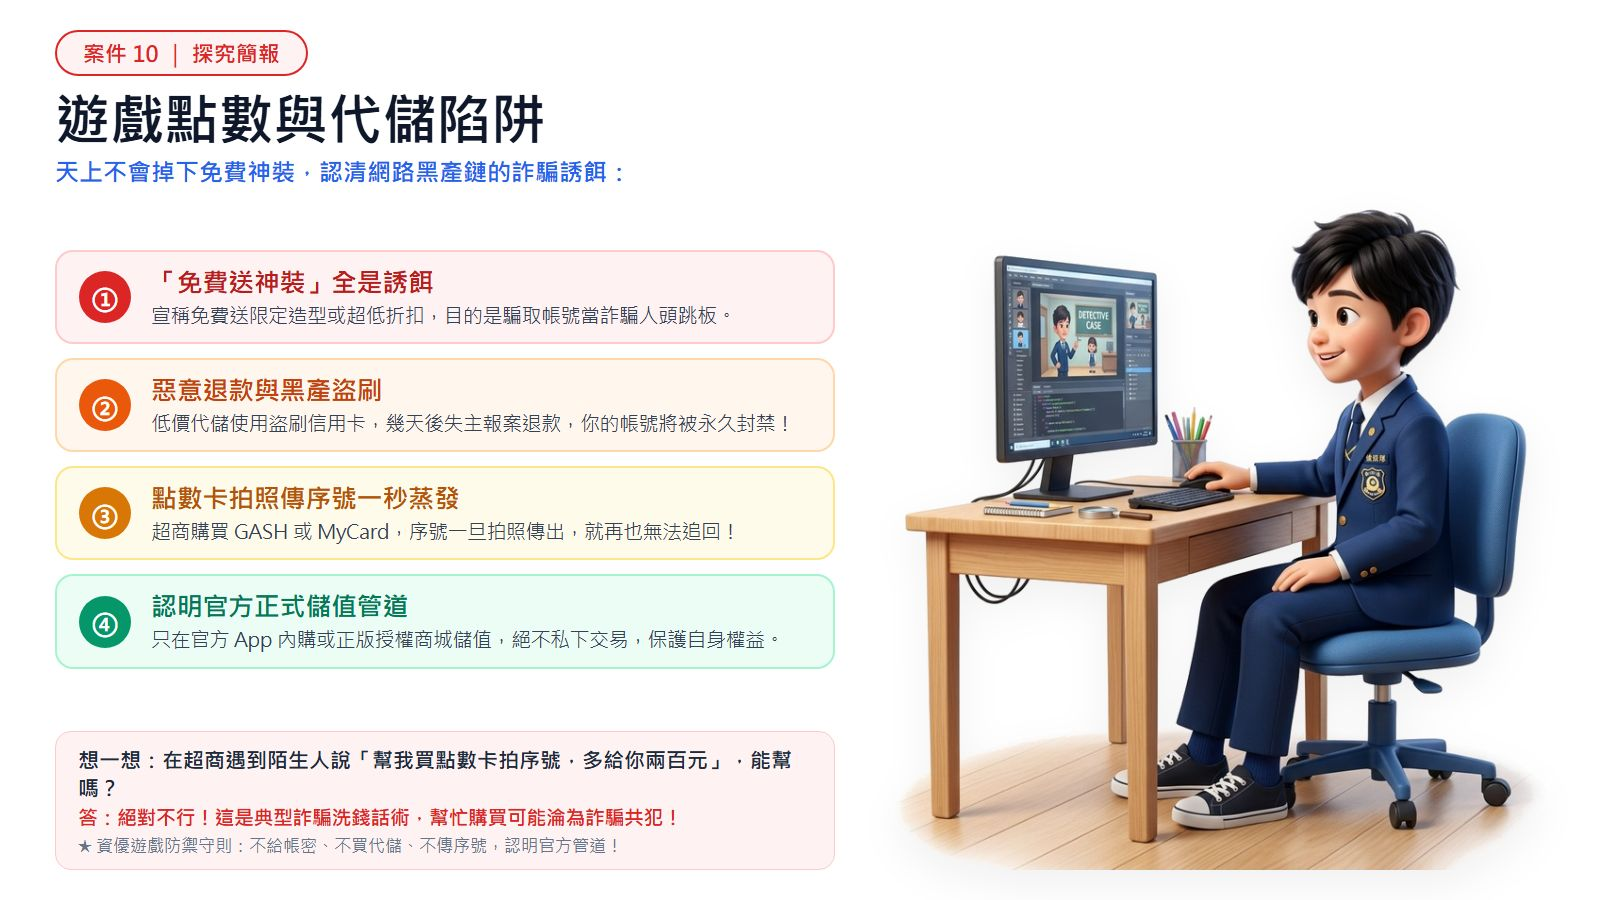
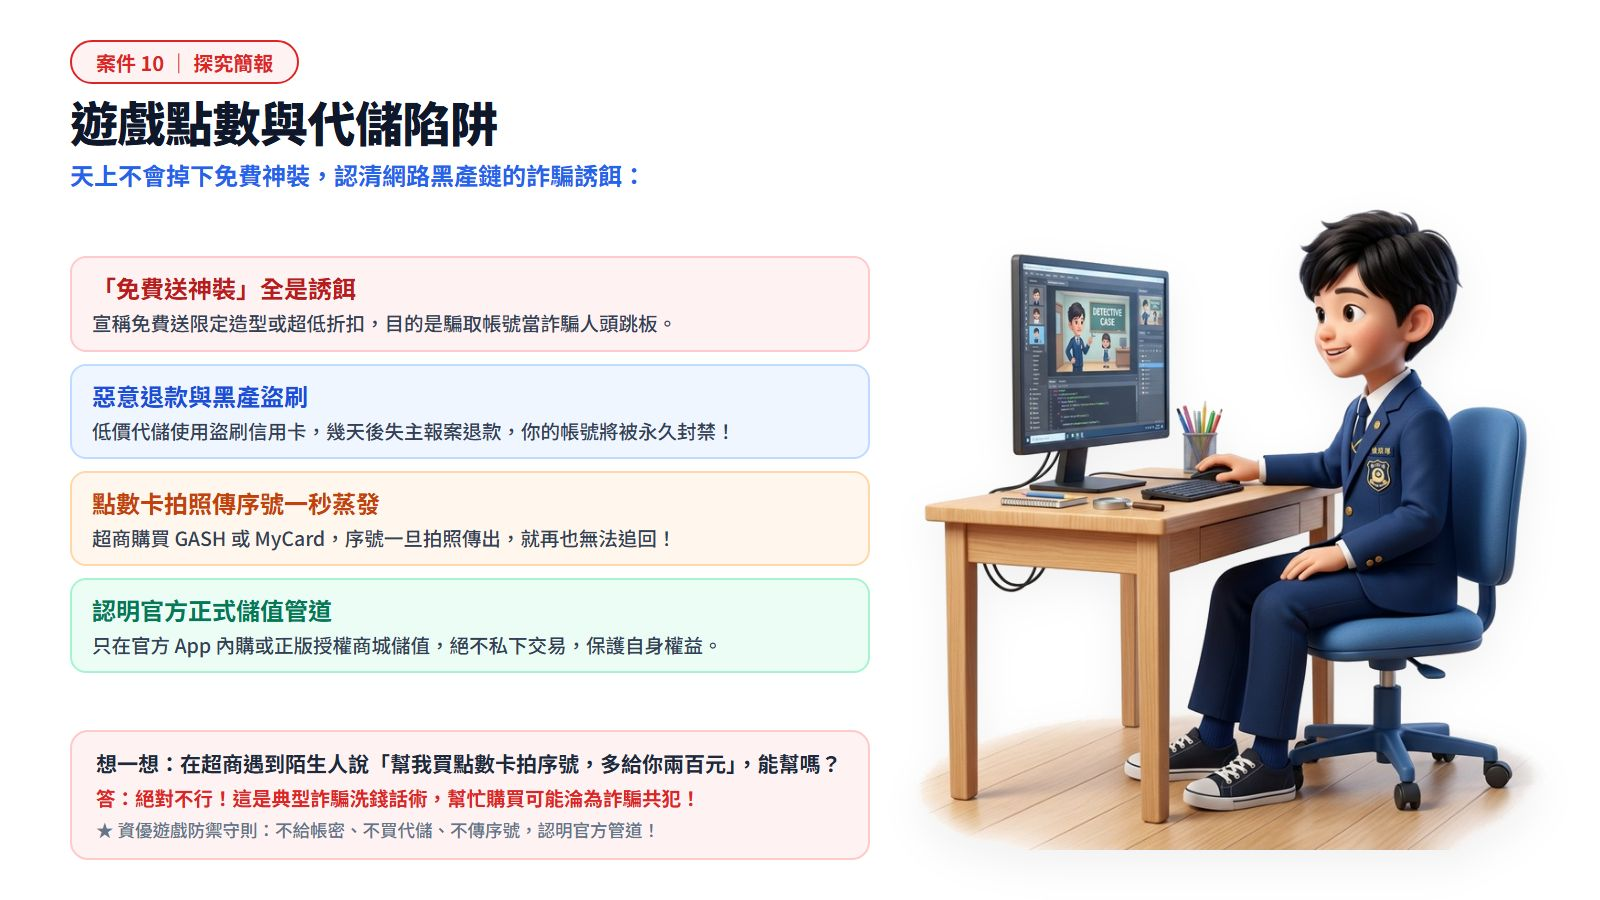
feat: 依 Kristy 指導完成案件 10 (選項 B 彩框無數字大字版) 正式上線

diff --git a/units/g5-cyber-safety/index.html b/units/g5-cyber-safety/index.html
@@ -641,7 +641,7 @@
         {
           title: '案件 10　遊戲寶物陷阱',
           text: '免費寶物、代儲打折、帳號買賣，是學生最常遇到的遊戲詐騙。<b>官方不會私訊送寶物</b>，也不要把帳號密碼給任何人。',
-          slides: ['assets/v10_game_v2.jpg?v=20261024_case10_desk_perfect'],
+          slides: ['assets/v10_game_v2.jpg?v=20261024_case10_b_perfect'],
           interactive: GAMES.gameStory,
           quizzes: [
             {
@@ -667,7 +667,7 @@
               feedback: '先切斷外洩管道（改密碼＋開 2FA），再清查影響範圍與通知聯絡人，避免災害擴散。'
             }
           ],
-          infographic: 'assets/i10_game_v3.jpg?v=20261024_case10_desk_perfect',
+          infographic: 'assets/i10_game_v3.jpg?v=20261024_case10_b_perfect',
           teacherTips: ['我是反詐騙設計師：分組設計一張給阿公阿嬤或低年級看的防詐海報，或 30 秒短劇，下次課發表。']
         },
         {

diff --git a/handoff.md b/handoff.md
@@ -157,23 +157,27 @@
   - **全套三圖升級完成**：
     - 探究簡報（一）（`final_case9_phish.jpg`）：釣魚網站（長得一模一樣的陷阱，官方政府 vs 假冒釣魚、官方遊戲 vs 假冒釣魚），搭配 3D 發光放大鏡小男孩。
     - 探究簡報（二）（`e2_qr_v3.jpg`）：QR Code 陷阱（被調包的條碼），搭配高馬尾手持發光 SAFE SHIELD 平板女孩。
-    - 探究思維圖解（`i9_phish_v3.jpg`）：釣魚網站與假條碼查核表，四彩框＋底部資安金律框，搭配 3D 小男孩。
-  - **快取碼刷新與上線**：覆蓋 `final_case9_phish.jpg`、`e2_qr_v3.jpg` 與 `i9_phish_v3.jpg`，更新 `index.html` 快取碼 `?v=20261024_case9_b_perfect`。
+- **依據 Kristy 最新指導完成案件 10（遊戲點數與代儲陷阱·紅藍橘綠 4 彩框大字體·無數字·電腦桌小男孩偵探）全面升級上線（2026-10-24 22:03）**：
+  - **Kristy 確認選擇「B」**：採用 4 彩色大卡片框（紅、藍、橘、綠對比鮮明版），徹底移除 `1 2 3 4` 數字，標題放大至 `24px`，內文放大至 `19.5px`。
+  - **全套兩圖升級完成**：
+    - 探究簡報（`v10_game_v2.jpg`）：遊戲點數與代儲陷阱，四彩框＋底部超商買點數想一想框，搭配 3D 電腦桌小男孩偵探。
+    - 探究思維圖解（`i10_game_v3.jpg`）：線上遊戲防詐守則，四彩框＋底部資安偵探金律框，搭配 3D 電腦桌小男孩偵探。
+  - **快取碼刷新與上線**：覆蓋 `v10_game_v2.jpg` 與 `i10_game_v3.jpg`，更新 `index.html` 快取碼 `?v=20261024_case10_b_perfect`。
 - 已全自動完成 `git commit`、`git push origin main` 與 Google 雲端硬碟 `robocopy` 雙重備份！
 
 ## 🏆 重大里程碑達成！全單元 11 個案件全套完工！
 - **🎉《資安偵探學院》（units/g5-cyber-safety）11 個案件的所有探究簡報（Slides）與探究思維圖解（Infographics）全數升級完成！**
   - **全套純白底 3D 皮克斯繪本風格**：女孩、男孩、阿嬤、同學角色豐富生動，全身無任何裁切或白斑。
   - **全套統一紅框紅字規格標籤**：`案件 N ｜ 探究簡報`、`案件 N ｜ 探究思維圖解`。
-  - **依案件屬性精緻化版面**：案件 1 採用純金字塔＋紅色向上階梯箭頭；案件 2、案件 3、案件 4、案件 5、案件 6、案件 7、案件 8、案件 9 採用彩框大字體無數字版；其他案件依屬性配置四彩大卡片或清爽大字圓點條列。
+  - **依案件屬性精緻化版面**：案件 1 採用純金字塔＋紅色向上階梯箭頭；案件 2、案件 3、案件 4、案件 5、案件 6、案件 7、案件 8、案件 9、案件 10 採用彩框大字體無數字版；其他案件依屬性配置四彩大卡片或清爽大字圓點條列。
   - **全套統一底部互動問答框 / 金律提示框**：增強課堂互動與核心觀念收斂。
   - **全套統一舒適呼吸留白**：文字卡片與插圖間保留 70px~150px 充裕空間，徹底告別擁擠與遮擋。
 - 教學影片播放清單（含《2020》網路危機等 4 部短片）已上線。
 
 ## ➡ 下一步
-1. 緊接著「照順序」推進【案件 10：遊戲寶物陷阱（遊戲點數與代儲）】：
-   - 準備案件 10 的打樣預覽（選項 A 無中間框 vs 選項 B 有 4 彩框），呈報 Kristy 檢閱二選一。
-2. 案件 10 確認後，推進案件 11。
+1. 緊接著「照順序」推進【案件 11：群組裡的旁觀者（網路霸凌與溫暖求助）】：
+   - 準備案件 11 的打樣預覽（選項 A 無中間框 vs 選項 B 有 4 彩框），呈報 Kristy 檢閱二選一。
+2. 案件 11 確認後，全單元 11 案大字無數字彩框標準全面定案！
 3. 始終堅持「改之前必定給 Kristy 確認」！
 
 ## ⚠ 注意事項
@@ -181,8 +185,9 @@
 - 所有插圖一律為 16:9 純白底繪本規格，零切邊、零陰影框。
 
 ## 🕐 最後更新
-- 時間：2026-10-24 21:58
+- 時間：2026-10-24 22:03
 - 更新者：Antigravity @ LAPTOP-IUMJF2MM
+
 
 
 
